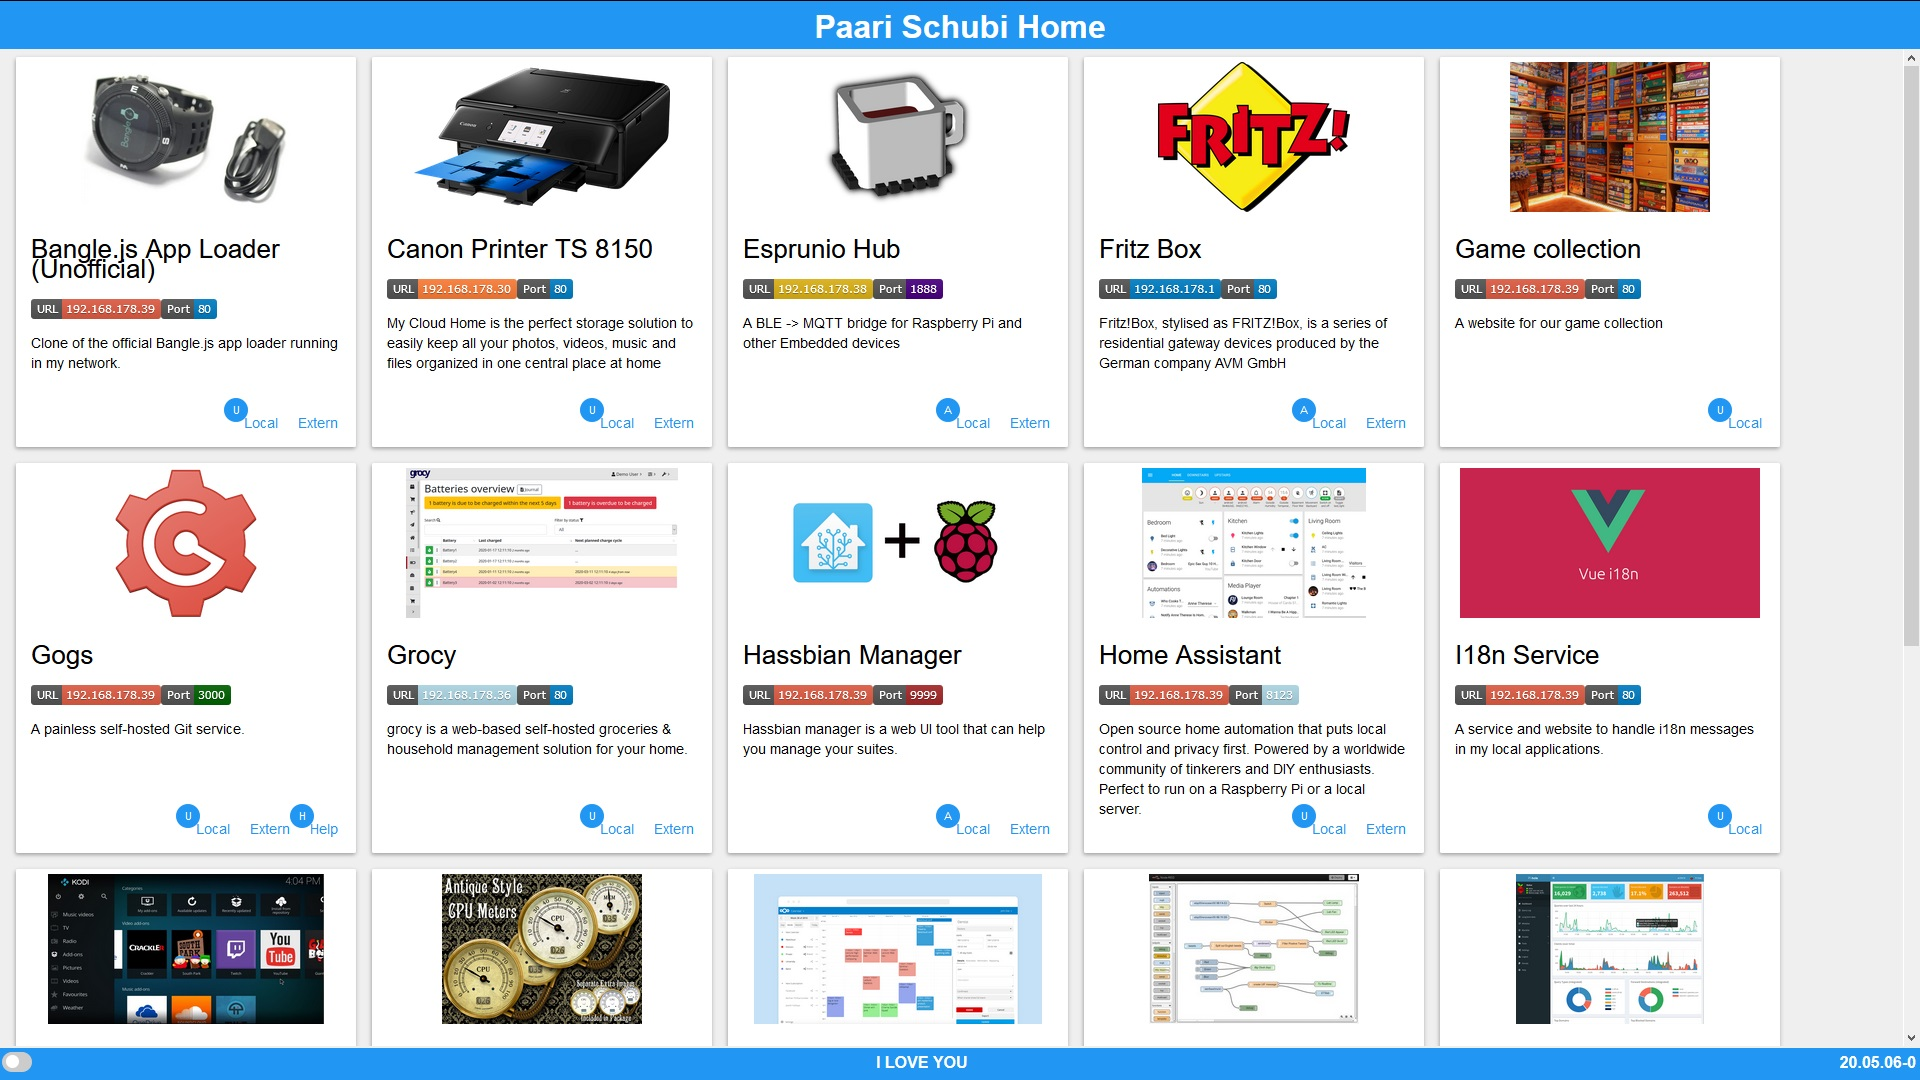
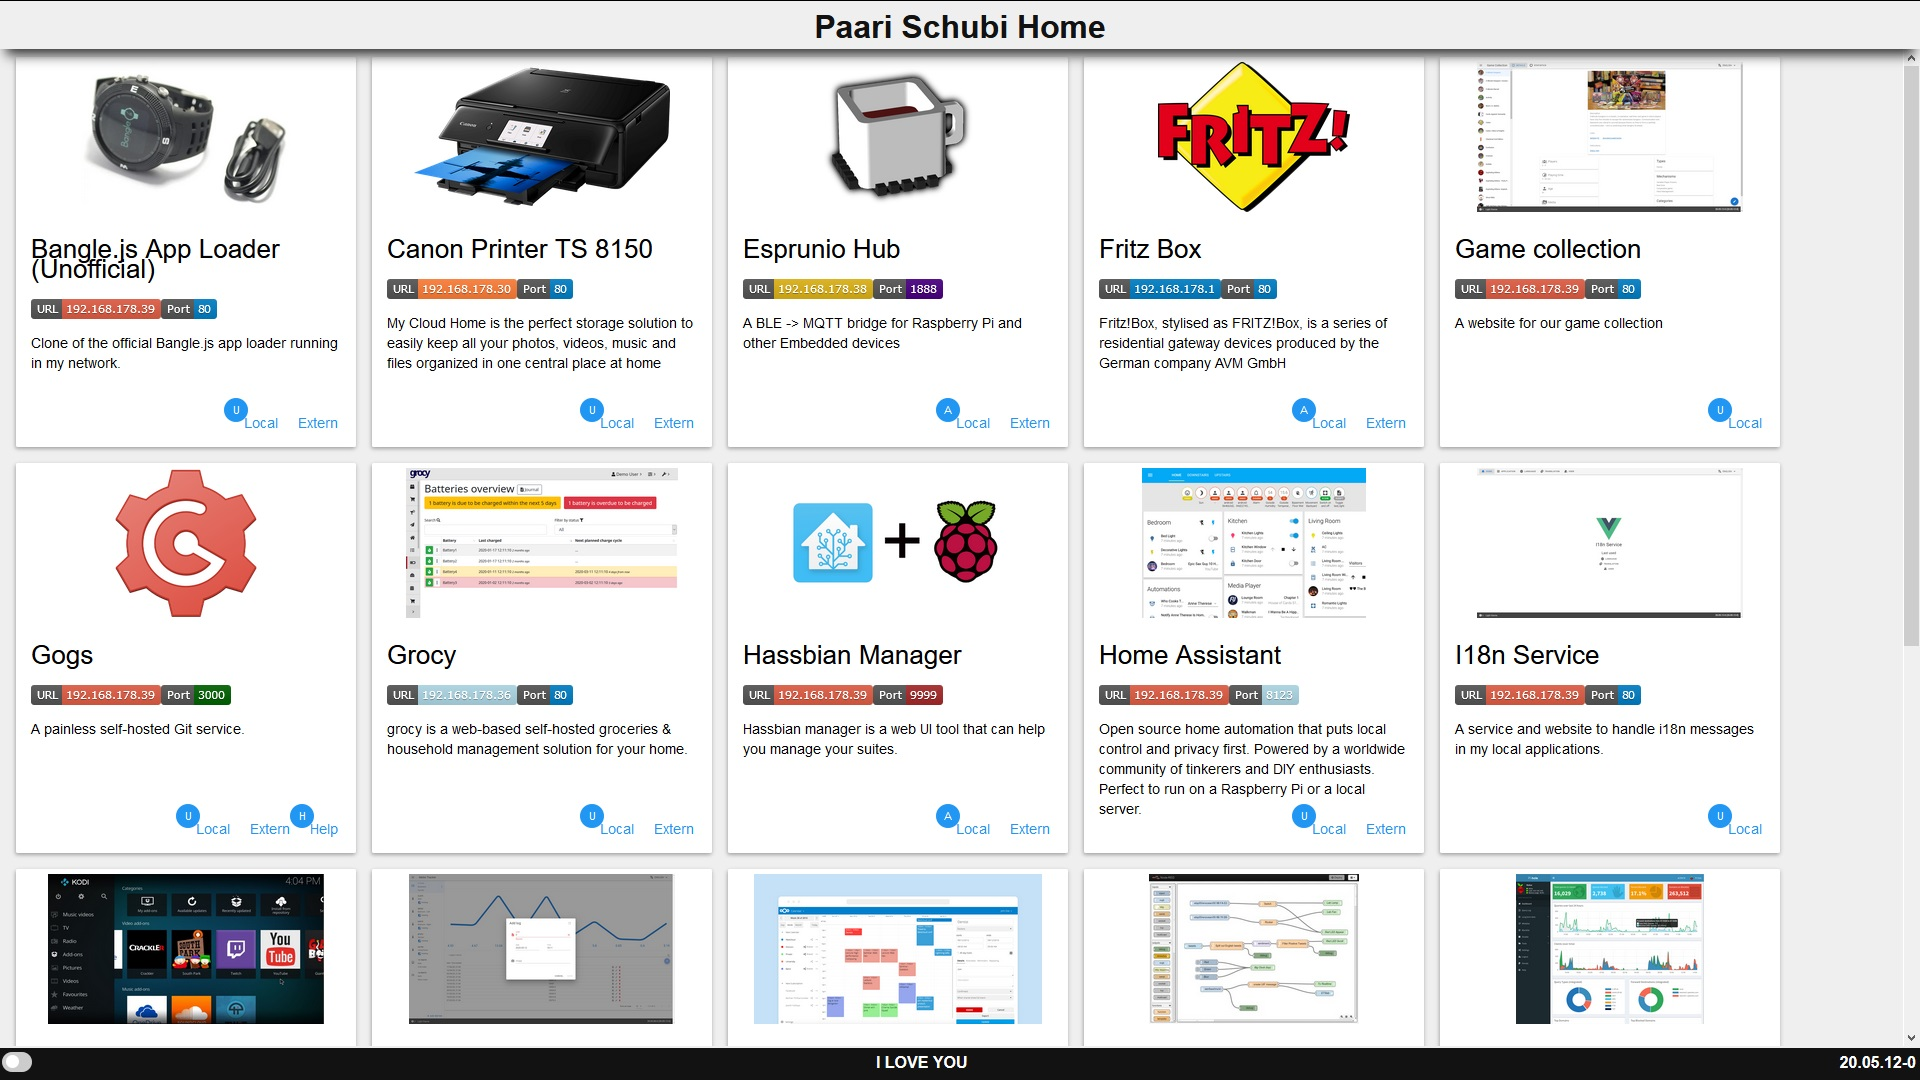
updates images for home projects, optimizes theming

Changed region(s): [[0.0, 0.7944, 1.0, 1.0], [0.0, 0.0, 1.0, 0.2139], [0.75, 0.4278, 0.9375, 0.5806]]

diff --git a/index.html b/index.html
@@ -72,7 +72,7 @@
             </div>
 
             <div class="card">
-                <a href="http://192.168.178.39/game-collection" target="_blank"><img class="card-image" src="https://external-content.duckduckgo.com/iu/?u=https%3A%2F%2Fgeekken.files.wordpress.com%2F2012%2F08%2Fmassiveboardgamecollection.jpeg&f=1&nofb=1" /></a>
+                <a href="http://192.168.178.39/game-collection" target="_blank"><img class="card-image" src="https://github.com/JonasSchubert/game-collection/blob/master/client/screenshots/details_light.jpg?raw=true" /></a>
                 <div class="card-details">
                     <h2 class="card-head">Game collection</h2>
                     <div style="display: flex;">
@@ -152,7 +152,7 @@
             </div>
 
             <div class="card">
-                <a href="http://192.168.178.39/i18n-service" target="_blank"><img class="card-image" src="https://d2jq2hx2dbkw6t.cloudfront.net/67/vue18.png" /></a>
+                <a href="http://192.168.178.39/i18n-service" target="_blank"><img class="card-image" src="https://github.com/JonasSchubert/i18n-service/blob/master/client/screenshots/home_light.jpg?raw=true" /></a>
                 <div class="card-details">
                     <h2 class="card-head">I18n Service</h2>
                     <div style="display: flex;">
@@ -183,7 +183,7 @@
             </div>
 
             <div class="card">
-                <a href="http://192.168.178.39/meter-tracker" target="_blank"><img class="card-image" src="https://img00.deviantart.net/2e68/i/2011/143/e/e/antique_cpu_meter_by_elmer_befuddled-d3gjlsn.png" /></a>
+                <a href="http://192.168.178.39/meter-tracker" target="_blank"><img class="card-image" src="https://github.com/JonasSchubert/meter-tracker/blob/master/client/screenshots/screenshot_light.jpg?raw=true" /></a>
                 <div class="card-details">
                     <h2 class="card-head">Meter tracker</h2>
                     <div style="display: flex;">
@@ -268,7 +268,7 @@
 				<span class="slider round"></span>
 			</label>
             I LOVE YOU
-            <div style="float: right;">20.05.06-0</div>
+            <div style="float: right;">20.05.12-0</div>
 		</div>
     </body>
 </html>
@@ -282,12 +282,13 @@ html {
 
 html.dark {
   background-color: #121212;
-  color: white;
+  color: #efefef;
 }
 
 .header {
-    background-color: #2196F3;
-    color: white;
+    background-color: #efefef;
+    box-shadow: 0 12px 12px -6px #343434;
+    color: #121212;
     font-size: 32px;
     font-weight: bold;
     height: 16px;
@@ -300,7 +301,9 @@ html.dark {
 }
 
 .header.dark {
-    background-color: #4921f3;
+    background-color: #121212;
+    box-shadow: 0 3px 2px -2px #ababab;
+    color: #efefef;
 }
 
 .container {
@@ -394,7 +397,7 @@ html.dark {
 }
 
 .footer {
-    background-color: #2196F3;
+    background-color: #121212;
     bottom: 0;
     color: white;
     font-size: 16px;
@@ -408,7 +411,7 @@ html.dark {
 }
 
 .footer.dark {
-    background-color: #4921f3;
+    background-color: #010101;
 }
 
 .left {
@@ -477,6 +480,7 @@ const body = document.getElementById("body");
 const header = document.getElementsByClassName("header");
 const footer = document.getElementsByClassName("footer");
 const cards = document.getElementsByClassName("card");
+const images = document.getElementsByTagName("img"); 
 
 const elements = [body, ...header, ...footer, ...cards];
 
@@ -490,6 +494,14 @@ function changeTheme() {
 			element.classList.add("dark");
 		} else {
 			element.classList.remove("dark");
+		}
+	}
+	
+	for (const image of images) {
+		if(darkTheme){
+			image.src = image.src.replace("light", "dark");
+		} else {
+			image.src = image.src.replace("dark", "light");
 		}
 	}
 }
